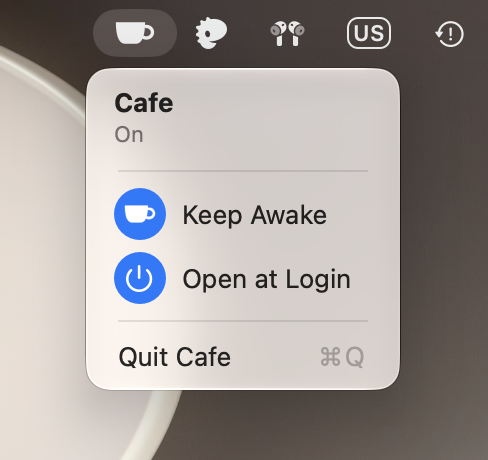
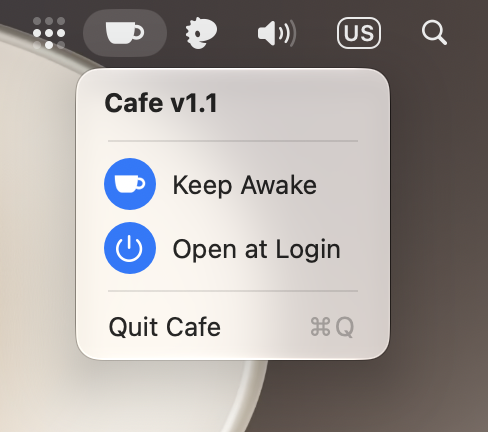
Retake the README screenshot with the version header
The menu header changed, so the old screenshots no longer matched
the app. One screenshot with Keep Awake on is enough to show the
menu, so the off one is removed.

diff --git a/README.md b/README.md
@@ -2,7 +2,7 @@
 
 A menu bar toggle that keeps a Mac awake, like `caffeinate -s`.
 
-<img src="screenshots/off.png" width="244" alt="Cafe's menu with Keep Awake off"> <img src="screenshots/on.png" width="244" alt="Cafe's menu with Keep Awake on">
+<img src="screenshots/on.png" width="244" alt="Cafe's menu with Keep Awake on">
 
 Click the cup and choose Keep Awake to turn it on: the icon fills in and the system won't sleep while on AC power (the display can still sleep). Choose it again to turn it off. Right-click the cup to toggle it without opening the menu. It remembers its state the next time it opens.
 
